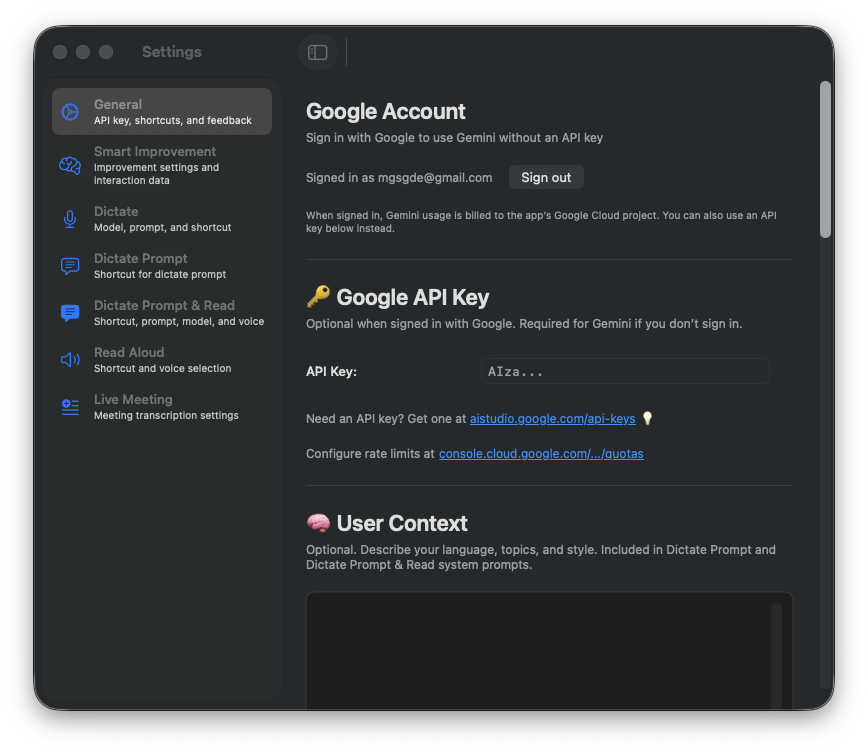
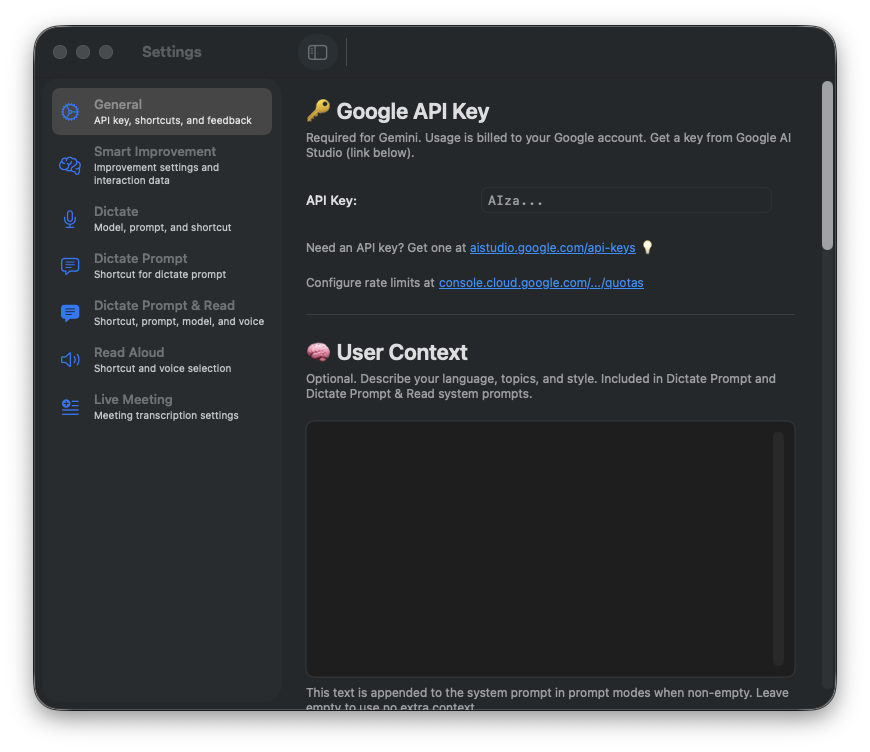
Remove Google Single Sign-On (SSO); API key only for Gemini
- App: Remove Google Sign-In package, OAuth from Info.plist and FullApp
- App: GoogleAuthService reduced to stub; delete GoogleAccountSection
- App: GeminiCredentialProvider uses StubGoogleAuthService; API key required copy
- Website: index, privacy, terms – API key only; remove all SSO/OAuth wording
- Website: Update screenshot templates and regenerate PNGs
- Docs: macos-app-description.md – Privacy & Security copy for API key only
- Screenshot script: Wait for star-history chart image to load before capture

diff --git a/WhisperShortcut/GoogleAuthService.swift b/WhisperShortcut/GoogleAuthService.swift
@@ -1,153 +1,16 @@
 import Foundation
-#if canImport(GoogleSignIn)
-import GoogleSignIn
-#endif
 
-/// OAuth sign-in and token supply for Gemini API. When signed in, use Bearer token instead of API key.
+/// Stub for Gemini API credential: only API key is used; no OAuth.
 protocol GoogleAuthService: AnyObject {
-  /// Returns a valid access token for Gemini API, refreshing if expired.
-  /// Returns nil if not signed in or refresh failed.
   func currentAccessToken() async -> String?
-  /// True if the user is currently signed in (may still need token refresh).
   func isSignedIn() -> Bool
-  /// Start the sign-in flow (opens browser or system UI). Completion on main thread.
   func signIn() async throws
-  /// Sign out and clear stored tokens.
   func signOut()
-  /// Email or display string for the signed-in user, if available; nil when not signed in.
   func signedInUserEmail() -> String?
-  /// Restores a previous sign-in from Keychain if configured and credentials exist. Call at app launch.
   func restorePreviousSignInIfNeeded() async
 }
 
-#if canImport(GoogleSignIn)
-/// Real OAuth using Google Sign-In SDK. Use when GIDClientID is set in Info.plist.
-final class DefaultGoogleAuthService: GoogleAuthService {
-  static let shared = DefaultGoogleAuthService()
-
-  private static let geminiScope = "https://www.googleapis.com/auth/generative-language.retriever"
-
-  private var clientID: String? {
-    Bundle.main.object(forInfoDictionaryKey: "GIDClientID") as? String
-  }
-
-  private var isConfigured: Bool {
-    guard let id = clientID else { return false }
-    return !id.trimmingCharacters(in: .whitespacesAndNewlines).isEmpty
-  }
-
-  private init() {}
-
-  func currentAccessToken() async -> String? {
-    guard isConfigured, let user = GIDSignIn.sharedInstance.currentUser else { return nil }
-
-    do {
-      let refreshedUser = try await withCheckedThrowingContinuation { (continuation: CheckedContinuation<GIDGoogleUser, Error>) in
-        user.refreshTokensIfNeeded { user, error in
-          if let error = error {
-            continuation.resume(throwing: error)
-          } else if let user = user {
-            continuation.resume(returning: user)
-          } else {
-            continuation.resume(throwing: NSError(domain: "GoogleAuth", code: -1, userInfo: [NSLocalizedDescriptionKey: "Token refresh returned nil"]))
-          }
-        }
-      }
-      return refreshedUser.accessToken.tokenString
-    } catch {
-      DebugLogger.logError("GoogleAuth: Token refresh failed: \(error.localizedDescription)")
-      return nil
-    }
-  }
-
-  func isSignedIn() -> Bool {
-    guard isConfigured else { return false }
-    return GIDSignIn.sharedInstance.currentUser != nil
-  }
-
-  func signedInUserEmail() -> String? {
-    guard isConfigured, let user = GIDSignIn.sharedInstance.currentUser else { return nil }
-    return user.profile?.email
-  }
-
-  func signIn() async throws {
-    guard isConfigured else {
-      DebugLogger.logWarning("GoogleAuth: Not configured (GIDClientID missing or empty)")
-      throw NSError(
-        domain: "GoogleAuth",
-        code: -2,
-        userInfo: [NSLocalizedDescriptionKey: "Sign in with Google is not available in this version. Please use an API key below instead."]
-      )
-    }
-    guard let window = NSApp.keyWindow ?? NSApp.windows.first else {
-      throw NSError(domain: "GoogleAuth", code: -1, userInfo: [NSLocalizedDescriptionKey: "No window to present sign-in"])
-    }
-    let config = GIDConfiguration(clientID: clientID!)
-    GIDSignIn.sharedInstance.configuration = config
-    let scopes = [Self.geminiScope]
-    return try await withCheckedThrowingContinuation { continuation in
-      GIDSignIn.sharedInstance.signIn(withPresenting: window, hint: nil, additionalScopes: scopes) { result, error in
-        if let error = error {
-          DebugLogger.logError("GoogleAuth: Sign-in failed: \(error.localizedDescription)")
-          continuation.resume(throwing: error)
-          return
-        }
-        guard result != nil else {
-          continuation.resume(throwing: NSError(domain: "GoogleAuth", code: -1, userInfo: [NSLocalizedDescriptionKey: "Sign-in was cancelled"]))
-          return
-        }
-        DebugLogger.log("GoogleAuth: Sign-in succeeded")
-        continuation.resume()
-      }
-    }
-  }
-
-  func signOut() {
-    guard isConfigured else { return }
-    GIDSignIn.sharedInstance.signOut()
-    DebugLogger.log("GoogleAuth: Signed out")
-  }
-
-  func restorePreviousSignInIfNeeded() async {
-    guard isConfigured else { return }
-    guard let clientID = clientID else { return }
-    let config = GIDConfiguration(clientID: clientID)
-    GIDSignIn.sharedInstance.configuration = config
-    guard GIDSignIn.sharedInstance.hasPreviousSignIn() else {
-      DebugLogger.log("GoogleAuth: No previous session to restore")
-      return
-    }
-    do {
-      _ = try await GIDSignIn.sharedInstance.restorePreviousSignIn()
-      DebugLogger.log("GoogleAuth: Restored previous session")
-    } catch {
-      DebugLogger.logError("GoogleAuth: Restore failed: \(error.localizedDescription)")
-    }
-  }
-
-  /// Call from NSApplicationDelegate.application(_:open:...) to handle OAuth redirect.
-  static func handle(url: URL) -> Bool {
-    GIDSignIn.sharedInstance.handle(url)
-  }
-}
-#else
-/// Placeholder when GoogleSignIn is not linked (e.g. conditional build).
-final class DefaultGoogleAuthService: GoogleAuthService {
-  static let shared = DefaultGoogleAuthService()
-  private init() {}
-  func currentAccessToken() async -> String? { nil }
-  func isSignedIn() -> Bool { false }
-  func signIn() async throws {
-    throw NSError(domain: "GoogleAuth", code: -3, userInfo: [NSLocalizedDescriptionKey: "Google Sign-In is not available in this build."])
-  }
-  func signOut() { }
-  func signedInUserEmail() -> String? { nil }
-  func restorePreviousSignInIfNeeded() async { }
-  static func handle(url: URL) -> Bool { false }
-}
-#endif
-
-/// Stub: use when OAuth is not configured (no GIDClientID). Credential provider falls back to API key.
+/// Stub: OAuth removed; credential provider uses API key only.
 final class StubGoogleAuthService: GoogleAuthService {
   static let shared = StubGoogleAuthService()
   private init() {}

diff --git a/website/privacy.html b/website/privacy.html
@@ -55,25 +55,16 @@
 
   <h2>What Data We Collect</h2>
 
-  <h3>1. Gemini Access: API Key or Sign in with Google</h3>
-  <p>To use cloud features (Gemini), you can either enter an API key or sign in with your Google account. You only need one of these.</p>
+  <h3>1. Gemini Access: API Key</h3>
+  <p>To use cloud features (Gemini), you enter your own Google API key. Usage is billed to your Google account.</p>
 
-  <h4>API Key (optional when signed in with Google)</h4>
+  <h4>API Key</h4>
   <ul>
     <li><strong>What:</strong> Your Google API key</li>
     <li><strong>Where:</strong> Stored securely in macOS Keychain</li>
-    <li><strong>Purpose:</strong> Authenticates requests to Google Gemini (transcription, AI prompting, TTS). Not needed when using Sign in with Google or offline Whisper for Speech-to-Text</li>
+    <li><strong>Purpose:</strong> Authenticates requests to Google Gemini (transcription, AI prompting, TTS). Not needed for offline Whisper (Speech-to-Text)</li>
     <li><strong>Retention:</strong> Stored locally until you delete it</li>
     <li><strong>Access:</strong> Only accessible by the app on your device</li>
-  </ul>
-
-  <h4>Sign in with Google (OAuth)</h4>
-  <ul>
-    <li><strong>What:</strong> OAuth access and refresh tokens from Google Sign-In; the app may display your Google account email when you are signed in</li>
-    <li><strong>Where:</strong> Tokens are stored securely in macOS Keychain (via the Google Sign-In SDK). We do not store your Google password</li>
-    <li><strong>Purpose:</strong> Lets you use Gemini (transcription, AI prompting, TTS) without entering an API key. Authentication is handled by Google; we only use the tokens to request access to Gemini on your behalf</li>
-    <li><strong>Retention:</strong> Stored locally until you sign out or revoke access</li>
-    <li><strong>Access:</strong> Only accessible by the app on your device. We do not collect or use your Google account data for any purpose other than authenticating API requests</li>
   </ul>
 
   <h3>2. App Preferences</h3>
@@ -116,7 +107,7 @@
 
   <h2>What Data We Do NOT Collect</h2>
   <ul>
-    <li>Personal information (name, email, address). When you sign in with Google, we do not collect or use your Google account data beyond what is needed to display your signed-in state and to authenticate requests to Gemini</li>
+    <li>Personal information (name, email, address)</li>
     <li>Usage analytics or tracking data</li>
     <li>Crash reports or diagnostic information</li>
     <li>Audio recordings (beyond temporary processing)</li>
@@ -129,10 +120,10 @@
   <p>WhisperShortcut uses Google's Gemini API for Speech-to-Text (cloud), Speech-to-Prompt, Read Aloud / TTS, Prompt &amp; Read, and Live Meeting. Data sent: audio files and/or text. Data received: transcribed text, AI-modified text, or audio. Subject to <a href="https://policies.google.com/privacy">Google's Privacy Policy</a>. When you use cloud features, your audio and/or text may be sent to Google's servers. For offline Speech-to-Text with Whisper, no data leaves your device.</p>
 
   <h2>Data Storage and Security</h2>
-  <p>All app data is stored locally on your macOS device. API keys and OAuth tokens (when you sign in with Google) are stored in macOS Keychain. No data is transmitted to our servers. Audio is recorded locally and files are automatically deleted after processing. Clipboard data is not stored by the app.</p>
+  <p>All app data is stored locally on your macOS device. API keys are stored in macOS Keychain. No data is transmitted to our servers. Audio is recorded locally and files are automatically deleted after processing. Clipboard data is not stored by the app.</p>
 
   <h2>Your Rights and Controls</h2>
-  <p>You can access and modify preferences through the app settings, delete your API key, sign out of Google (which removes stored OAuth tokens), reset preferences, delete meeting transcripts and interaction data, and disable automatic improvement. Microphone and Accessibility permissions can be revoked in macOS System Settings.</p>
+  <p>You can access and modify preferences through the app settings, delete your API key, reset preferences, delete meeting transcripts and interaction data, and disable automatic improvement. Microphone and Accessibility permissions can be revoked in macOS System Settings.</p>
 
   <h2>Children's Privacy</h2>
   <p>WhisperShortcut does not knowingly collect personal information from children under 13.</p>

diff --git a/website/screenshots/js/capture-all.js b/website/screenshots/js/capture-all.js
@@ -89,9 +89,28 @@ async function captureScreenshot(config) {
       waitUntil: 'domcontentloaded',
       timeout: 10000 
     });
-    
+
+    // Star-history loads an external image from api.star-history.com; wait for it to load
+    if (config.name === 'star-history') {
+      try {
+        await page.waitForSelector('img[src*="api.star-history.com"]', { timeout: 15000 });
+        await page.evaluate(() => {
+          return new Promise((resolve, reject) => {
+            const img = document.querySelector('img[src*="api.star-history.com"]');
+            if (!img) return reject(new Error('Chart image not found'));
+            if (img.complete && img.naturalWidth > 0) return resolve();
+            img.onload = () => resolve();
+            img.onerror = () => reject(new Error('Chart image failed to load'));
+            setTimeout(() => (img.naturalWidth > 0 ? resolve() : reject(new Error('Chart image load timeout'))), 12000);
+          });
+        });
+      } catch (e) {
+        console.warn(`⚠  star-history: chart image may not have loaded (${e.message}), capturing anyway`);
+      }
+    }
+
     // Wait for content
-    await new Promise(resolve => setTimeout(resolve, 2000));
+    await new Promise(resolve => setTimeout(resolve, config.name === 'star-history' ? 1000 : 2000));
     
     // Take screenshot (write to website/images/ so the site uses the same files)
     const outputPath = path.join(__dirname, '..', '..', 'images', config.output);

diff --git a/website/terms.html b/website/terms.html
@@ -43,8 +43,8 @@
   <h2>Use of the App</h2>
   <ul>
     <li>You may use WhisperShortcut in accordance with its documentation and in compliance with applicable laws.</li>
-    <li>When using cloud features (e.g. Google Gemini), you are also subject to the respective provider’s terms (e.g. <a href="https://policies.google.com/terms">Google Terms of Service</a>, <a href="https://developers.google.com/terms">Google API Terms</a>). If you use Sign in with Google to access Gemini, your use of that feature is subject to Google's terms and OAuth consent.</li>
-    <li>You are responsible for securing your API key and Google account credentials; do not share them with others.</li>
+    <li>When using cloud features (e.g. Google Gemini), you are also subject to the respective provider’s terms (e.g. <a href="https://policies.google.com/terms">Google Terms of Service</a>, <a href="https://developers.google.com/terms">Google API Terms</a>).</li>
+    <li>You are responsible for securing your API key; do not share it with others.</li>
   </ul>
 
   <h2>Limitations</h2>

diff --git a/WhisperShortcut/FullApp.swift b/WhisperShortcut/FullApp.swift
@@ -23,9 +23,8 @@ class FullAppDelegate: NSObject, NSApplicationDelegate {
 
     // Microphone permission will be requested automatically when recording starts
 
-    // Restore Google Sign-In from Keychain, then decide whether to show settings
+    // Check whether to show settings (API key required for Gemini)
     Task {
-      await DefaultGoogleAuthService.shared.restorePreviousSignInIfNeeded()
       await MainActor.run {
         if !GeminiCredentialProvider.shared.hasCredential() {
           DispatchQueue.main.asyncAfter(deadline: .now() + Constants.settingsDelay) {
@@ -70,11 +69,6 @@ class FullAppDelegate: NSObject, NSApplicationDelegate {
     menuBarController?.cleanup()
   }
 
-  func application(_ application: NSApplication, open urls: [URL]) {
-    for url in urls {
-      if DefaultGoogleAuthService.handle(url: url) { return }
-    }
-  }
 
   private func setupEditMenu() {
     // Create Edit menu with standard text editing commands

diff --git a/website/index.html b/website/index.html
@@ -148,9 +148,7 @@
     </section>
 
     <h2>Why we use Google</h2>
-    <p>Cloud features (transcription, AI prompting, text-to-speech) use Google’s Gemini API. You can either enter your own
-      API key or sign in with your Google account so the app can request access to Gemini on your behalf. We use your data
-      only to provide these features and do not sell or share it with third parties.</p>
+    <p>Cloud features (transcription, AI prompting, text-to-speech) use Google’s Gemini API. Enter your own API key from Google AI Studio; usage is billed to your Google account. We use your data only to provide these features and do not sell or share it with third parties.</p>
 
     <p><a href="privacy.html">Privacy Policy</a> · <a href="terms.html">Terms of Service</a></p>
 

diff --git a/WhisperShortcut/GeminiCredentialProvider.swift b/WhisperShortcut/GeminiCredentialProvider.swift
@@ -12,7 +12,7 @@ protocol GeminiCredentialProviding {
 
 /// Default implementation: API key takes precedence over OAuth when both are available.
 final class GeminiCredentialProvider: GeminiCredentialProviding {
-  static let shared = GeminiCredentialProvider(googleAuthService: DefaultGoogleAuthService.shared)
+  static let shared = GeminiCredentialProvider(googleAuthService: StubGoogleAuthService.shared)
 
   private let keychainManager: KeychainManaging
   private weak var googleAuthService: GoogleAuthService?

diff --git a/WhisperShortcut/Settings/Tabs/General/GoogleAPIKeySection.swift b/WhisperShortcut/Settings/Tabs/General/GoogleAPIKeySection.swift
@@ -14,7 +14,7 @@ struct GoogleAPIKeySection: View {
     VStack(alignment: .leading, spacing: SettingsConstants.internalSectionSpacing) {
       SectionHeader(
         title: "🔑 Google API Key",
-        subtitle: "Optional when signed in with Google. Required for Gemini if you don't sign in."
+        subtitle: "Required for Gemini. Usage is billed to your Google account. Get a key from Google AI Studio (link below)."
       )
 
       HStack(alignment: .center, spacing: 16) {

diff --git a/website/screenshots/html/powered-by-gemini.html b/website/screenshots/html/powered-by-gemini.html
@@ -109,7 +109,7 @@
 
         <div class="content-section">
             <h2 class="content-title">Powered by Gemini</h2>
-            <p class="content-subtitle">Sign in with Google or configure API key, choose the best model and personalize prompts</p>
+            <p class="content-subtitle">Configure your API key, choose the best model and personalize prompts</p>
         </div>
     </div>
 </body>

diff --git a/WhisperShortcut/Settings/Tabs/GeneralSettingsTab.swift b/WhisperShortcut/Settings/Tabs/GeneralSettingsTab.swift
@@ -9,10 +9,6 @@ struct GeneralSettingsTab: View {
 
   var body: some View {
     VStack(alignment: .leading, spacing: 0) {
-      GoogleAccountSection(viewModel: viewModel)
-
-      SpacedSectionDivider()
-
       GoogleAPIKeySection(viewModel: viewModel, focusedField: $focusedField)
 
       SpacedSectionDivider()

diff --git a/website/screenshots/html/speech-to-prompt.html b/website/screenshots/html/speech-to-prompt.html
@@ -137,7 +137,7 @@
 <body>
     <div class="header">
         <h1 class="app-title">Speech-to-Prompt</h1>
-        <p class="app-subtitle">Sign in with Google or use an API key</p>
+        <p class="app-subtitle">Use your Google API key from Google AI Studio</p>
     </div>
 
     <div class="main-content">

diff --git a/privacy.md b/privacy.md
@@ -19,25 +19,17 @@ WhisperShortcut is a macOS menu bar application with four main features: **Speec
 
 ## What Data We Collect
 
-### 1. Gemini Access: API Key or Sign in with Google
+### 1. Gemini Access: API Key
 
-To use cloud features (Gemini), you can either enter an API key or sign in with your Google account. You only need one of these.
+To use cloud features (Gemini), you enter your own Google API key. Usage is billed to your Google account.
 
-**API Key (optional when signed in with Google)**
+**API Key**
 
 - **What**: Your Google API key
 - **Where**: Stored securely in macOS Keychain
-- **Purpose**: Authenticates requests to Google Gemini (transcription, AI prompting, TTS). Not needed when using Sign in with Google or offline Whisper for Speech-to-Text
+- **Purpose**: Authenticates requests to Google Gemini (transcription, AI prompting, TTS). Not needed for offline Whisper (Speech-to-Text)
 - **Retention**: Stored locally until you delete it
 - **Access**: Only accessible by the app on your device
-
-**Sign in with Google (OAuth)**
-
-- **What**: OAuth access and refresh tokens from Google Sign-In; the app may display your Google account email when you are signed in
-- **Where**: Tokens are stored securely in macOS Keychain (via the Google Sign-In SDK). We do not store your Google password
-- **Purpose**: Lets you use Gemini (transcription, AI prompting, TTS) without entering an API key. Authentication is handled by Google; we only use the tokens to request access to Gemini on your behalf
-- **Retention**: Stored locally until you sign out or revoke access
-- **Access**: Only accessible by the app on your device. We do not collect or use your Google account data for any purpose other than authenticating API requests
 
 ### 2. App Preferences
 
@@ -78,7 +70,7 @@ To use cloud features (Gemini), you can either enter an API key or sign in with 
 
 ## What Data We Do NOT Collect
 
-- ❌ Personal information (name, email, address). When you sign in with Google, we do not collect or use your Google account data beyond what is needed to display your signed-in state and to authenticate requests to Gemini
+- ❌ Personal information (name, email, address)
 - ❌ Usage analytics or tracking data
 - ❌ Crash reports or diagnostic information
 - ❌ Audio recordings (beyond temporary processing)
@@ -109,7 +101,7 @@ WhisperShortcut uses Google's Gemini API for:
 ### Local Storage
 
 - All app data is stored locally on your macOS device
-- API keys and OAuth tokens (when you sign in with Google) are stored in macOS Keychain
+- API keys are stored in macOS Keychain
 - No data is transmitted to our servers
 
 ### Audio Processing
@@ -135,7 +127,6 @@ WhisperShortcut uses Google's Gemini API for:
 ### Data Deletion
 
 - Delete API key: Use the app's settings to remove your API key
-- Sign out of Google: Use the app's settings to sign out; this removes stored OAuth tokens from the device
 - Reset preferences: Use the app's reset to defaults feature
 - Delete Live Meeting transcripts: Remove files from the app data folder under `Meetings/` (path shown in Settings > General, or see `docs/data-directories.md`). Legacy files may be in `~/Documents/WhisperShortcut/`.
 - Delete User Context / interaction logs: Use **Settings > Smart Improvement > Delete interaction data**, or remove the `UserContext` folder in the app data path (see path in Settings or `docs/data-directories.md`).
